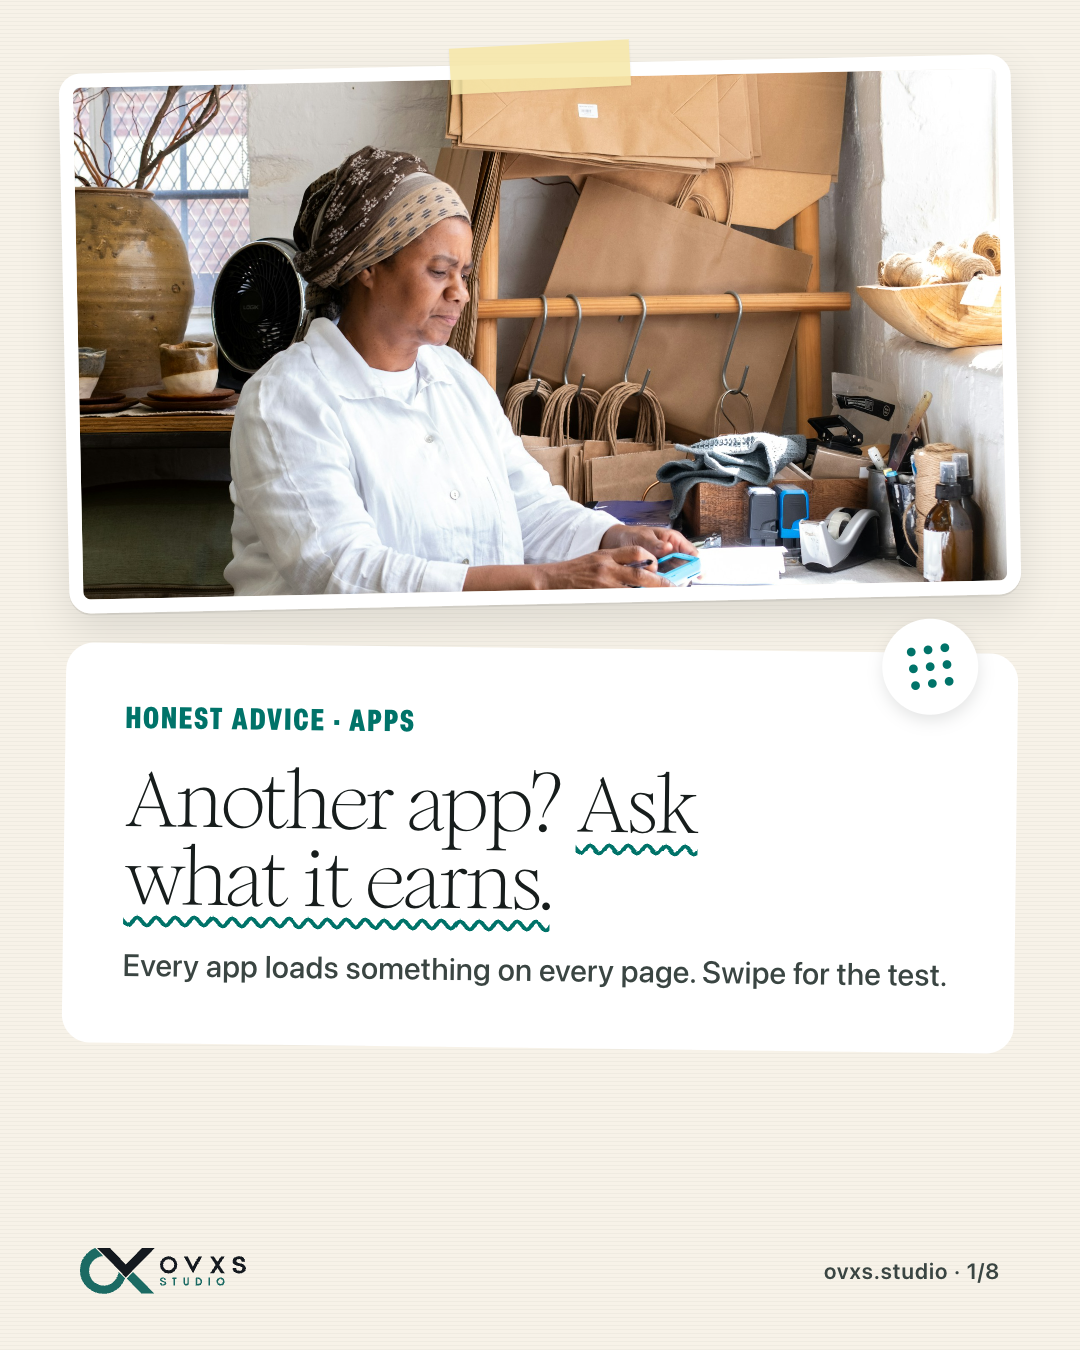
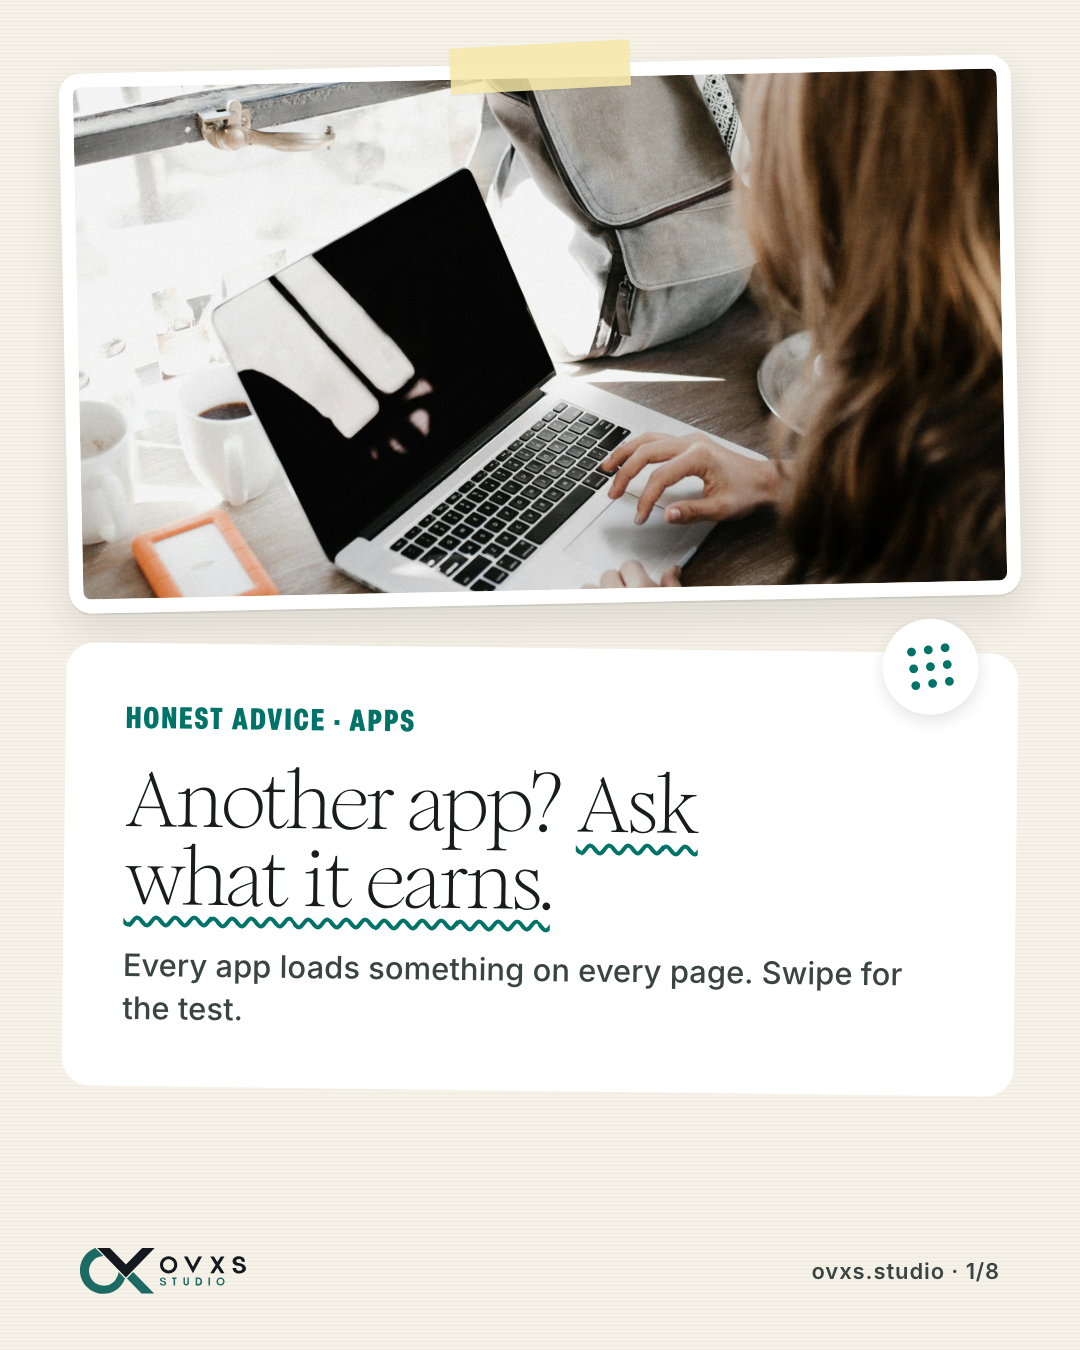
content: daily run 2026-11-20 — too-many-apps: Desk slide 1 photo swap synced, PNG re-rendered and uploaded

diff --git a/topics/2026-11-12-too-many-apps/page.html b/topics/2026-11-12-too-many-apps/page.html
@@ -209,7 +209,7 @@ Not sure what to cut? We’ll record a 10–15 minute walkthrough of your store 
 </main>
 <script>
 const slides=[
-  {bg:"primary",ph:"cover",ey:"Honest advice · Apps",hd:"Another app? <em>Ask what it earns.</em>",sb:"Every app loads something on every page. Swipe for the test."},
+  {bg:"primary",ph:"slide1-cover",ey:"Honest advice · Apps",hd:"Another app? <em>Ask what it earns.</em>",sb:"Every app loads something on every page. Swipe for the test."},
   {bg:"dark",ey:"The ceiling",hd:"Built for Shopify still costs <em>up to 10 points.</em>",sb:"That’s what Shopify allows an app to take off your storefront speed score.",src:"Shopify, Built for Shopify criteria 2.2.1"},
   {bg:"surface",n:"01",ey:"List",hd:"List every app <em>you pay for.</em>",sb:"Check the apps page, then your bill. They don’t always match."},
   {bg:"container",ph:"notes",n:"02",ey:"Earn",hd:"Write the sale <em>it helped make.</em>",sb:"Last month, in plain numbers. Not what it promised."},

diff --git a/topics/2026-11-12-too-many-apps/brief.md b/topics/2026-11-12-too-many-apps/brief.md
@@ -66,12 +66,14 @@ No request from Ramit. Picked by the weekly run on 2026-11-12: no new Desk reque
 - Drafted 2026-11-14 in an interactive session (the scheduled daily run was cancelled). Preview: https://claude.ai/artifact/Dbh5KEYGtPEojQiZRKnK64
 - 2026-11-14: Ramit asked for fresh photos. Brief 1 photos replaced with three new Unsplash picks (see Photos); only the four photo images were re-rendered and re-uploaded.
 - 2026-11-18: LinkedIn graphic photo: Andrew Neel (QLqNalPe0RA), swapped on the Desk. Downloaded with credit; all nine graphics re-rendered as PNGs in the Studio Notes scheme with the Desk's designs.
+- 2026-11-20: Slide 1 photo: Andrew Neel (ute2XAFQU2I), swapped on the Desk. Downloaded with credit as assets/slide1-cover.jpg; slide 1 re-rendered as PNG and uploaded; preview republished. The previous slide 1 photo (cover.jpg) stays in assets/ as the Desk backup.
 
 ## Photos
 | File | Source | Photographer | Page |
 |---|---|---|---|
 | assets/li-cover.jpg | Unsplash QLqNalPe0RA | Andrew Neel | LinkedIn graphic (Desk pick 2026-11-18) |
-| assets/cover.jpg | Unsplash ag5H7Nqbf9U | Filipp Romanovski | slide 1 |
+| assets/slide1-cover.jpg | Unsplash ute2XAFQU2I | Andrew Neel | slide 1 (Desk pick 2026-11-20) |
+| assets/cover.jpg | Unsplash ag5H7Nqbf9U | Filipp Romanovski | slide 1 backup on the Desk (not in use) |
 | assets/notes.jpg | Unsplash 1rm4_SojyNM | Jakub Żerdzicki | slide 4 |
 | assets/code.jpg | Unsplash _4HiCxdOBLU | Tracy Adams | slide 6 |
 
